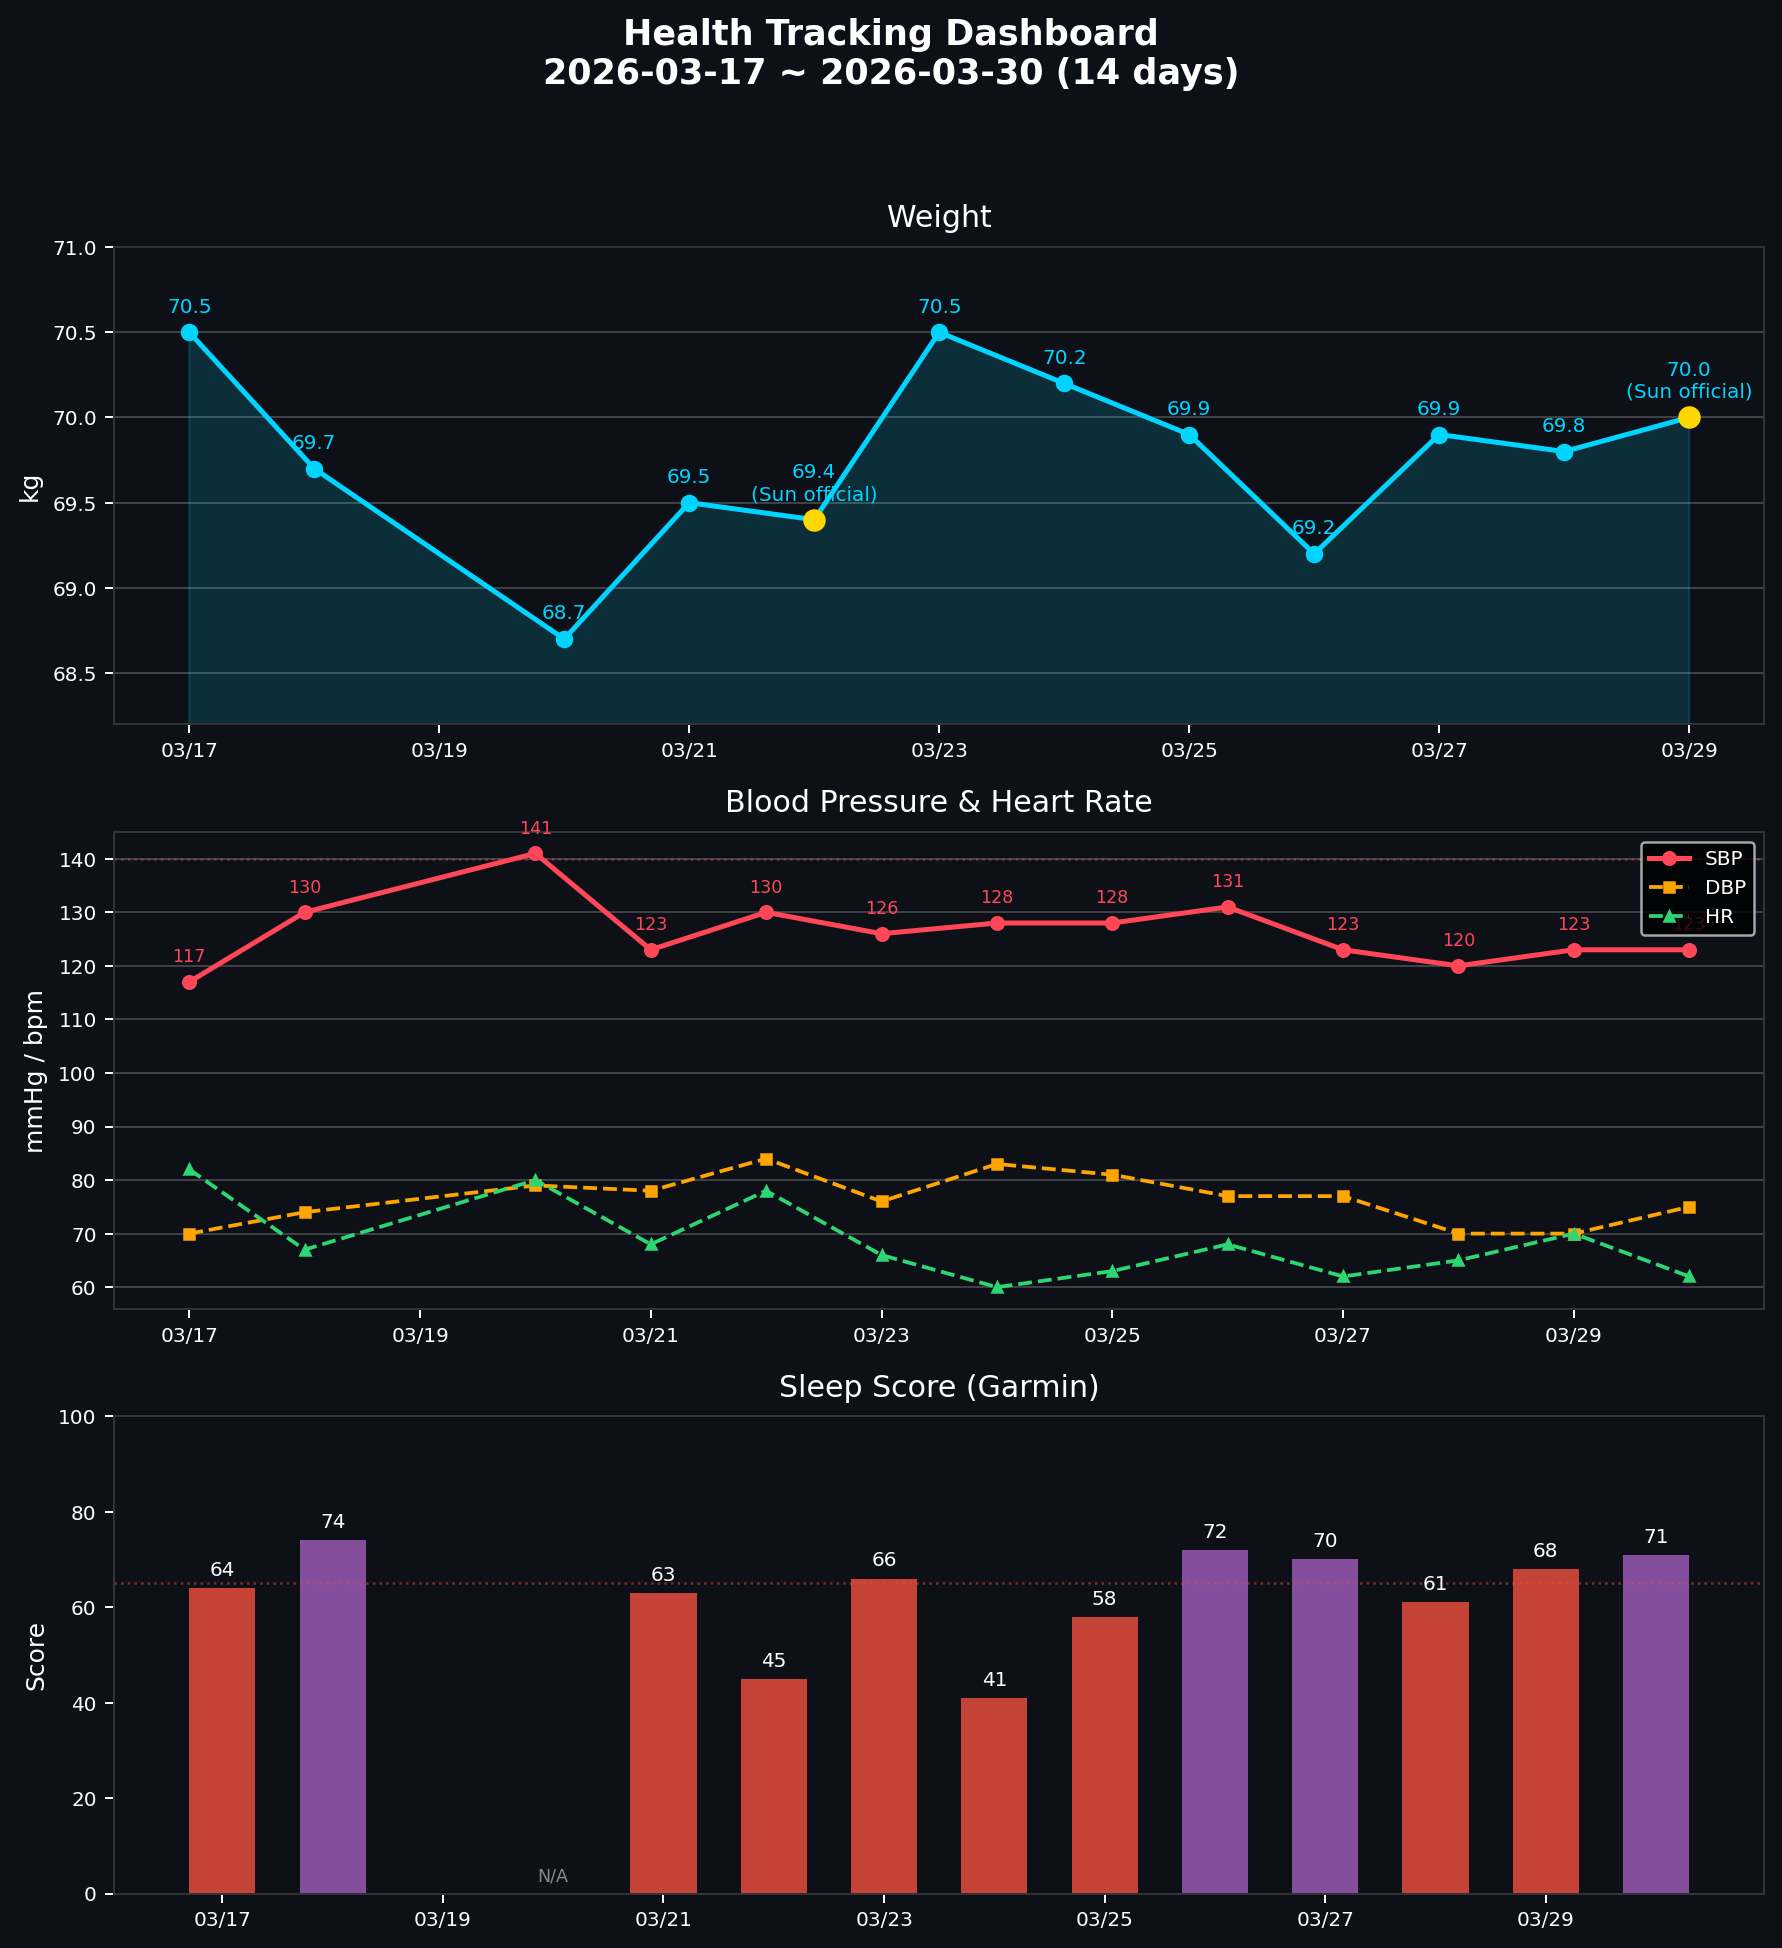
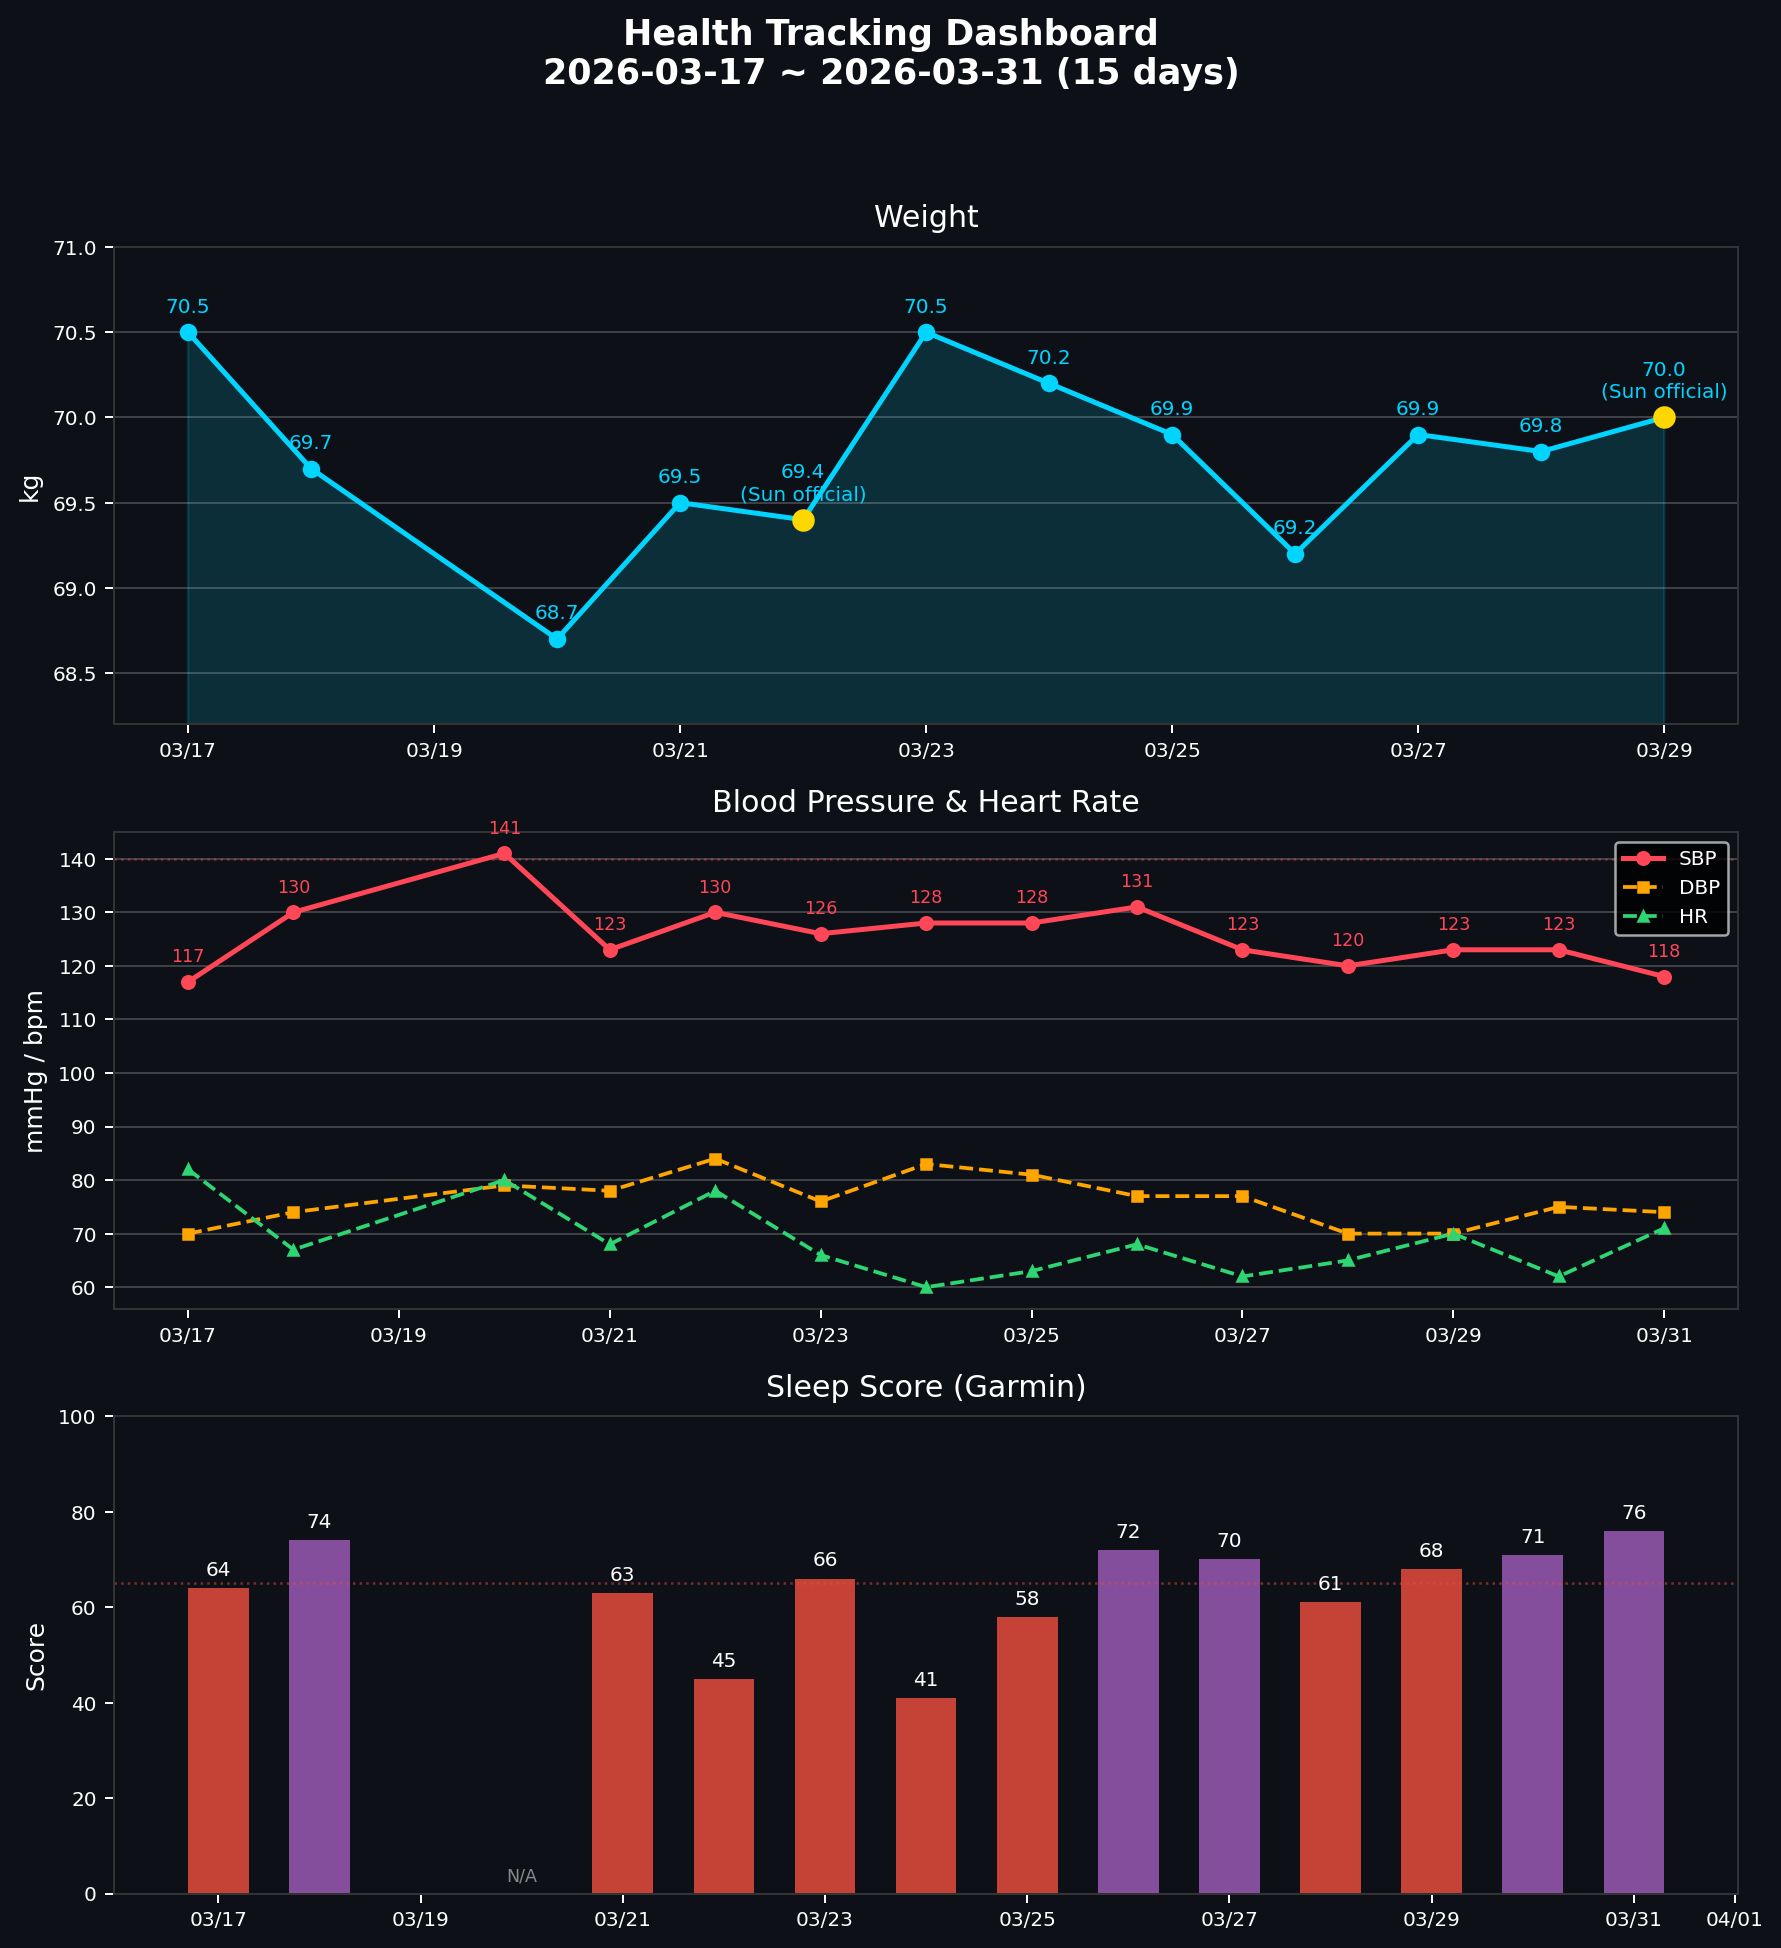
health check 2026-03-31: BP 118/74/71, Sleep 76, BB 40

diff --git a/reviews/daily/2026-03-31.md b/reviews/daily/2026-03-31.md
@@ -1,0 +1,59 @@
+# 晨間健康紀錄 — 2026-03-31
+
+*3 分鐘。起床後立即完成。記錄，不分析。*
+
+---
+
+## 體重
+
+**今日：[ ] kg**
+
+*每週日早晨為正式紀錄（排尿後、進食前）。其他日可選填。*
+
+---
+
+## 血壓（晨間）
+
+*起床後 1 小時內，上完廁所、進食前。坐下安靜 5 分鐘，連量兩次取第二次。*
+
+| 次數 | 收縮壓 | 舒張壓 | 心率 |
+|------|--------|--------|------|
+| 第一次 | 116 | 76 | 74 |
+| 第二次 | 118 | 74 | 71 |
+
+---
+
+## 睡眠狀態
+
+**實際就寢：** 22:06
+**實際起床：** 05:46
+**中途醒來：** 2次 / 原因：N/A
+**Garmin Sleep Score：** 76 / 100
+**Garmin Body Battery 起床值：** 40
+**主觀恢復感：** 4 / 5（1=極度疲憊, 5=精力充沛）
+
+*Sleep Score < 65 或 Body Battery < 50 連續三天 → 重新檢視睡眠修復方案。*
+
+---
+
+## 身體信號
+
+*任何張力、疼痛、疲勞、異常 — 或「清」。記位置、性質、強度。*
+
+| 部位 | 性質 | 強度 (0-10) |
+|------|------|-------------|
+| 左手腕 | 酸緊 | 3 |
+| 左手肘 | 酸緊 | 3 |
+
+---
+
+## 今日計畫速記
+
+- [ ] 飲水：2500ml / 2.5L（17:00 前完成主要量）
+- [ ] 補充品：魚油 ×4 + 酸櫻桃 ×1 + 枸杞茶 20g
+- [ ] 運動：散步
+- [ ] 活動度/伸展：伸展
+
+---
+
+*Filed: reviews/daily/2026-03-31.md*

diff --git a/reviews/weekly/2026-W14.md b/reviews/weekly/2026-W14.md
@@ -42,7 +42,7 @@
 | 日期 | 收縮壓 | 舒張壓 | 心率 |
 |------|--------|--------|------|
 | 03/30 (一) | 123 | 75 | 62 |
-| [TUE] (二) | | | |
+| 03/31 (二) | 118 | 74 | 71 |
 | [WED] (三) | | | |
 | [THU] (四) | | | |
 | [FRI] (五) | | | |
@@ -59,8 +59,8 @@
 
 | 日期 | 就寢 | 起床 | 中途醒 | Sleep Score | Body Battery | 主觀恢復 |
 |------|------|------|--------|-------------|--------------|----------|
-| 03/30 (一) | 123 | 75 | 62 | | | |
-| [TUE] (二) | | | | | | |
+| 03/30 (一) | 21:54 | 04:09 | 無 | 71 | 41 | 4 |
+| 03/31 (二) | 22:06 | 05:46 | 2次 | 76 | 40 | 4 |
 | [WED] (三) | | | | | | |
 | [THU] (四) | | | | | | |
 | [FRI] (五) | | | | | | |
